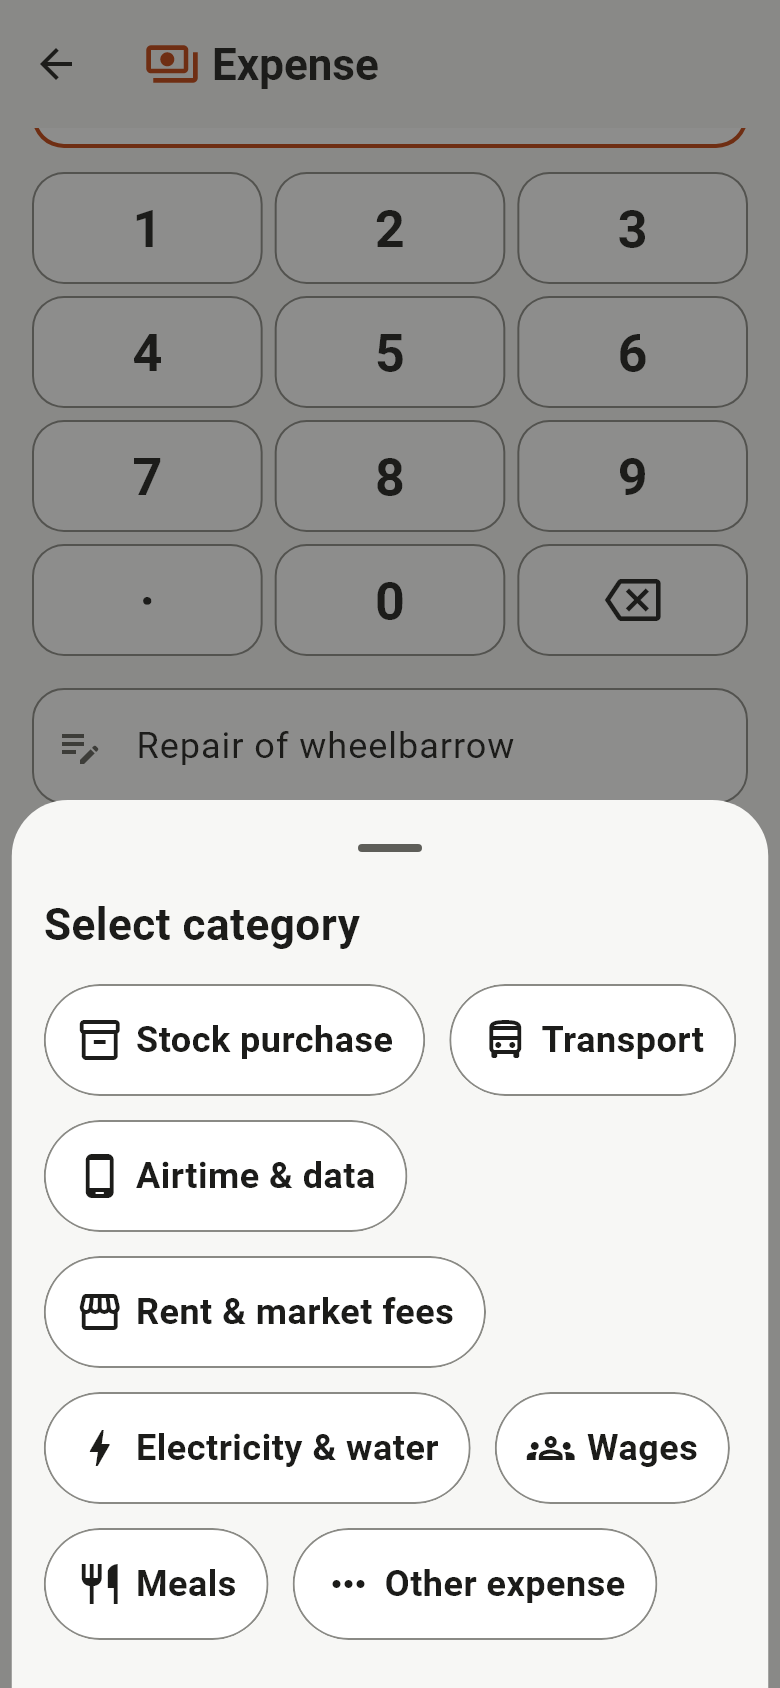
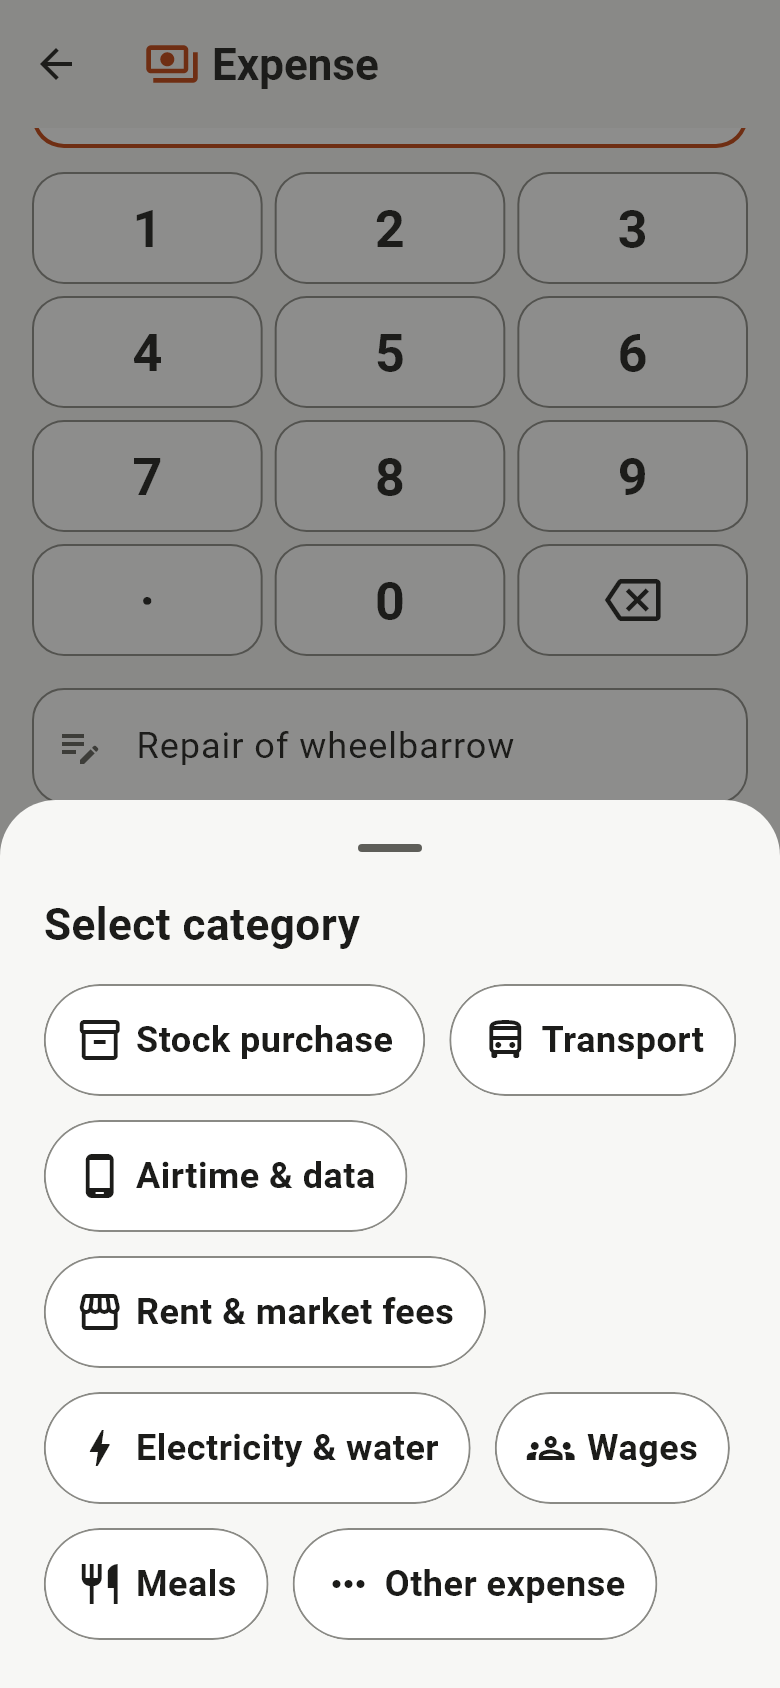
Bottom sheets: always full width
The category sheet shrank to its chips on the sale screen (three short
chips) and floated in the middle. Re-rendered S06 and S15.

Changed region(s): [[0.0, 0.4621, 0.0615, 1.0], [0.9846, 0.4929, 1.0, 1.0], [0.9538, 0.4621, 0.9846, 0.4929]]

diff --git a/mobile/lib/core/theme/app_theme.dart b/mobile/lib/core/theme/app_theme.dart
@@ -129,6 +129,9 @@ ThemeData buildAppTheme() {
       backgroundColor: AppColors.surface,
       modalBarrierColor: AppColors.scrim,
       showDragHandle: true,
+      // Full width always: a modal sheet may otherwise shrink to its content
+      // (e.g. the three sale category chips) and float in the middle.
+      constraints: BoxConstraints(minWidth: double.infinity),
       shape: RoundedRectangleBorder(
         borderRadius: BorderRadius.vertical(
           top: Radius.circular(AppRadius.sheet),
